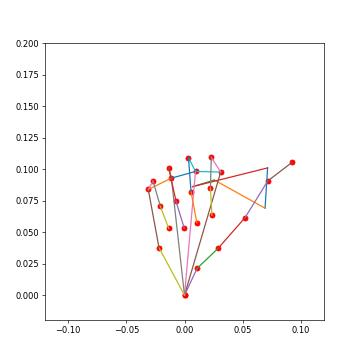
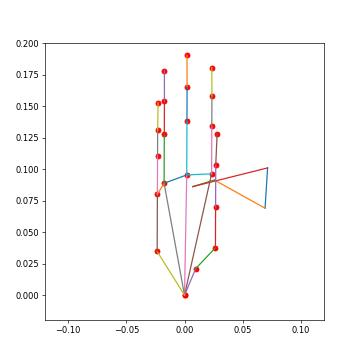
completed tesollo control

diff --git a/openteach/ros_links/franka_tesollo_control.py b/openteach/ros_links/franka_tesollo_control.py
@@ -1,0 +1,159 @@
+import time
+import threading
+import numpy as np
+from copy import deepcopy as copy
+
+# Try to import ROS 2 Python API with a helpful error if missing
+try:
+    import rclpy
+    from rclpy.node import Node
+    from rclpy.executors import MultiThreadedExecutor, SingleThreadedExecutor
+    from rclpy.qos import QoSProfile, ReliabilityPolicy, HistoryPolicy
+
+except ImportError as e:
+    raise ImportError(
+        "Failed to import rclpy. For Ubuntu 22.04 + ROS 2 Humble inside Conda, "
+        "install RoboStack packages (e.g., `mamba install -c robostack -c conda-forge "
+        "ros-humble-ros-base ros-humble-rclpy ros-humble-std-msgs ros-humble-sensor-msgs`)."
+    ) from e
+
+from std_msgs.msg import Float32MultiArray
+from sensor_msgs.msg import JointState
+
+
+TESOLLO_JOINT_STATE_TOPIC = '/gripper/joint_states'
+TESOLLO_TARGET_JOINT_STATE_TOPIC = '/gripper/target_joint'
+
+TESOLLO_HOME_VALUES = [
+    0, -0.17453293, 0.78539816, 0.78539816,           # Index
+    0, -0.17453293, 0.78539816, 0.78539816,           # Middle
+    1.04719755, 0.43633231, 0.26179939, 0.78539816    # Thumb
+]
+
+
+class DexArmControl(Node):
+    def __init__(self, record_type=None, robot_type='both'):
+        # Initialize rclpy and node
+        if not rclpy.ok():
+            rclpy.init(args=None)
+        super().__init__('dex_arm')
+
+        # Use real-time QoS settings
+        qos = QoSProfile(
+            reliability=ReliabilityPolicy.BEST_EFFORT,
+            history=HistoryPolicy.KEEP_LAST,
+            depth=1
+        )
+
+        self.tesollo_joint_state = None
+        self.create_subscription(
+            JointState,
+            TESOLLO_JOINT_STATE_TOPIC,
+            self._callback_tesollo_joint_state,
+            qos_profile=qos
+        )
+
+        self.target_pub = self.create_publisher(
+            Float32MultiArray,
+            TESOLLO_TARGET_JOINT_STATE_TOPIC,
+            1000
+        )
+
+        # Track last commanded joint values (no dedicated commanded topic)
+        self._last_commanded = None
+        self._last_commanded_time = 0.0
+
+        # Spin the node in a background executor thread
+        self._executor = MultiThreadedExecutor(num_threads=4)
+        self._executor.add_node(self)
+        self._spin_thread = threading.Thread(target=self._executor.spin, daemon=True)
+        self._spin_thread.start()
+
+    # ----------------- Callbacks -----------------
+    def _callback_tesollo_joint_state(self, joint_state):
+        self.tesollo_joint_state = joint_state
+
+    # ----------------- State getters -----------------
+    def get_hand_state(self):
+        if self.tesollo_joint_state is None:
+            return None
+        raw = copy(self.tesollo_joint_state)
+        return dict(
+            position=np.array(raw.position, dtype=np.float32),
+            velocity=np.array(raw.velocity, dtype=np.float32) if raw.velocity else np.array([], dtype=np.float32),
+            effort=np.array(raw.effort, dtype=np.float32) if raw.effort else np.array([], dtype=np.float32),
+            timestamp=raw.header.stamp.sec + raw.header.stamp.nanosec * 1e-9
+        )
+
+    def get_hand_position(self):
+        if self.tesollo_joint_state is None:
+            return None
+        return np.array(self.tesollo_joint_state.position, dtype=np.float32)
+
+    def get_hand_velocity(self):
+        if self.tesollo_joint_state is None:
+            return None
+        vel = getattr(self.tesollo_joint_state, 'velocity', [])
+        if vel:
+            return np.array(vel, dtype=np.float32)
+        # If velocity is not populated, return zeros with correct length
+        pos = getattr(self.tesollo_joint_state, 'position', [])
+        return np.zeros(len(pos), dtype=np.float32) if pos else np.array([], dtype=np.float32)
+
+    def get_hand_torque(self):
+        if self.tesollo_joint_state is None:
+            return None
+        eff = getattr(self.tesollo_joint_state, 'effort', [])
+        if eff:
+            return np.array(eff, dtype=np.float32)
+        pos = getattr(self.tesollo_joint_state, 'position', [])
+        return np.zeros(len(pos), dtype=np.float32) if pos else np.array([], dtype=np.float32)
+
+    def get_commanded_hand_state(self):
+        if self._last_commanded is None:
+            return None
+        return dict(
+            position=np.array(self._last_commanded, dtype=np.float32),
+            velocity=np.array([], dtype=np.float32),
+            effort=np.array([], dtype=np.float32),
+            timestamp=self._last_commanded_time,
+        )
+
+    def get_commanded_hand_joint_position(self):
+        if self._last_commanded is None:
+            return None
+        return np.array(self._last_commanded, dtype=np.float32)
+
+    def move_hand(self, tesollo_angles):
+        """
+        Pubilish Float32MultiArray to /gripper/target_joint
+        """
+        msg = Float32MultiArray()
+        msg.data = list(map(float, tesollo_angles))
+        self.target_pub.publish(msg)
+        self._last_commanded = list(map(float, tesollo_angles))
+        self._last_commanded_time = time.time()
+
+    def home_hand(self):
+        self.move_hand(TESOLLO_HOME_VALUES)
+
+    def reset_hand(self):
+        self.home_hand()
+
+    def move_robot(self, tesollo_angles, arm_angles=None):
+        self.move_hand(tesollo_angles)
+
+    def home_robot(self):
+        self.home_hand()
+
+    # Graceful shutdown helpers
+    def shutdown(self):
+        try:
+            if hasattr(self, '_executor'):
+                self._executor.shutdown()
+        finally:
+            try:
+                self.destroy_node()
+            finally:
+                if rclpy.ok():
+                    rclpy.shutdown()

diff --git a/openteach/ros_links/franka_allegro_control.py b/openteach/ros_links/franka_allegro_control.py
@@ -1,7 +1,10 @@
+import rospy
 import numpy as np
 import time
 
-
+from sensor_msgs.msg import JointState
+from geometry_msgs.msg import PoseStamped
+from allegro_hand.controller import AllegroController
 from franka_arm.controller import FrankaController
 from copy import deepcopy as copy
 
@@ -27,7 +30,7 @@ ALLEGRO_HOME_VALUES = ALLEGRO_ORIGINAL_HOME_VALUES
 
 
 class DexArmControl():
-    def __init__(self, record_type=None, robot_type='franka'):
+    def __init__(self, record_type=None, robot_type='both'):
 
         # if pub_port is set to None it will mean that
         # this will only be used for listening to franka and not commanding
@@ -36,14 +39,97 @@ class DexArmControl():
         except:
             pass
     
+        if robot_type == 'both':
+            self._init_allegro_hand_control()
+            self._init_franka_arm_control(record_type)
+        elif robot_type == 'allegro':
+            self._init_allegro_hand_control()
+        elif robot_type == 'franka':
+            self._init_franka_arm_control(record_type)
 
-        self._init_franka_arm_control(record_type)
+    # Controller initializers
+    def _init_allegro_hand_control(self):
+        self.allegro = AllegroController()
+
+        self.allegro_joint_state = None
+        rospy.Subscriber(
+            ALLEGRO_JOINT_STATE_TOPIC, 
+            JointState, 
+            self._callback_allegro_joint_state, 
+            queue_size = 1
+        )
+
+        self.allegro_commanded_joint_state = None
+        rospy.Subscriber(
+            ALLEGRO_COMMANDED_JOINT_STATE_TOPIC, 
+            JointState, 
+            self._callback_allegro_commanded_joint_state, 
+            queue_size = 1
+        )
 
     def _init_franka_arm_control(self, record_type=None):
 
         self.franka = FrankaController(record_type)
 
+    # Rostopic callback functions
+    def _callback_allegro_joint_state(self, joint_state):
+        self.allegro_joint_state = joint_state
 
+    def _callback_allegro_commanded_joint_state(self, joint_state):
+        self.allegro_commanded_joint_state = joint_state
+
+    # State information functions
+    def get_hand_state(self):
+        if self.allegro_joint_state is None:
+            return None
+
+        raw_joint_state = copy(self.allegro_joint_state)
+
+        joint_state = dict(
+            position = np.array(raw_joint_state.position, dtype = np.float32),
+            velocity = np.array(raw_joint_state.velocity, dtype = np.float32),
+            effort = np.array(raw_joint_state.effort, dtype = np.float32),
+            timestamp = raw_joint_state.header.stamp.secs + (raw_joint_state.header.stamp.nsecs * 1e-9)
+        )
+        return joint_state
+
+    def get_commanded_hand_state(self):
+        if self.allegro_commanded_joint_state is None:
+            return None
+
+        raw_joint_state = copy(self.allegro_commanded_joint_state)
+
+        joint_state = dict(
+            position = np.array(raw_joint_state.position, dtype = np.float32),
+            velocity = np.array(raw_joint_state.velocity, dtype = np.float32),
+            effort = np.array(raw_joint_state.effort, dtype = np.float32),
+            timestamp = raw_joint_state.header.stamp.secs + (raw_joint_state.header.stamp.nsecs * 1e-9)
+        )
+        return joint_state
+        
+    def get_hand_position(self):
+        if self.allegro_joint_state is None:
+            return None
+
+        return np.array(self.allegro_joint_state.position, dtype = np.float32)
+
+    def get_hand_velocity(self):
+        if self.allegro_joint_state is None:
+            return None
+
+        return np.array(self.allegro_joint_state.velocity, dtype = np.float32)
+
+    def get_hand_torque(self):
+        if self.allegro_joint_state is None:
+            return None
+
+        return np.array(self.allegro_joint_state.effort, dtype = np.float32)
+
+    def get_commanded_hand_joint_position(self):
+        if self.allegro_commanded_joint_state is None:
+            return None
+
+        return np.array(self.allegro_commanded_joint_state.position, dtype = np.float32)
 
     def get_arm_osc_position(self):
         current_pos, current_axis_angle = copy(self.franka.get_osc_position())
@@ -114,6 +200,17 @@ class DexArmControl():
             axis=0
         )
 
+        return cartesian_coord
+
+    # Movement functions
+    def move_hand(self, allegro_angles):
+        self.allegro.hand_pose(allegro_angles)
+
+    def home_hand(self):
+        self.allegro.hand_pose(ALLEGRO_HOME_VALUES)
+
+    def reset_hand(self):
+        self.home_hand()
 
     def move_arm_joint(self, joint_angles):
         self.franka.joint_movement(joint_angles)
@@ -149,4 +246,11 @@ class DexArmControl():
     def reset_arm(self):
         self.home_arm()
 
+    # Full robot commands
+    def move_robot(self, allegro_angles, arm_angles):
+        self.franka.joint_movement(arm_angles, False)
+        self.allegro.hand_pose(allegro_angles)
 
+    def home_robot(self):
+        self.home_hand()
+        self.home_arm() # For now we're using cartesian values

diff --git a/openteach/components/operators/franka_left.py b/openteach/components/operators/franka_left.py
@@ -78,7 +78,8 @@ class FrankaLeftArmOperator(Operator):
         self.is_first_frame= True
         self.prev_pause_flag=0
         self.pause_cnt=0
-        self.pause_flag=1
+        # Start in STOP state so first pinch starts control
+        self.pause_flag=0
 
 
     @property
@@ -241,8 +242,9 @@ class FrankaLeftArmOperator(Operator):
         # Use a Filter
         if self.use_filter:
             final_pose = self.comp_filter(final_pose)
-        # Move the robot arm
-        self.robot.arm_control(final_pose)
+        # Move the robot arm only when teleoperation is active
+        if self.arm_teleop_state == ARM_TELEOP_CONT:
+            self.robot.arm_control(final_pose)
 
     def stream(self):
         self.notify_component_start('{} control'.format(self.robot.name))

diff --git a/openteach/components/operators/franka_right.py b/openteach/components/operators/franka_right.py
@@ -78,7 +78,7 @@ class FrankaRightArmOperator(Operator):
         self.is_first_frame= True
         self.prev_pause_flag=0
         self.pause_cnt=0
-        self.pause_flag=1
+        self.pause_flag=0
 
 
     @property
@@ -242,7 +242,8 @@ class FrankaRightArmOperator(Operator):
         if self.use_filter:
             final_pose = self.comp_filter(final_pose)
         # Move the robot arm
-        self.robot.arm_control(final_pose)
+        if self.arm_teleop_state == ARM_TELEOP_CONT:
+            self.robot.arm_control(final_pose)
 
     def stream(self):
         self.notify_component_start('{} control'.format(self.robot.name))

diff --git a/openteach/ros_links/franka_control.py b/openteach/ros_links/franka_control.py
@@ -128,8 +128,6 @@ class DexArmControl():
     # Full robot commands
     def move_robot(self, allegro_angles, arm_angles):
         self.franka.joint_movement(arm_angles, False)
-        self.allegro.hand_pose(allegro_angles)
 
     def home_robot(self):
-        self.home_hand()
         self.home_arm() # For now we're using cartesian values

diff --git a/openteach/components/operators/tesollo.py b/openteach/components/operators/tesollo.py
@@ -43,7 +43,7 @@ class TesolloHandOperator(Operator):
 
 
 
-        self._timer = FrequencyTimer(VR_FREQ)
+        self._timer = FrequencyTimer(60)
 
         # Using 3 dimensional thumb motion or two dimensional thumb motion
         if self.finger_configs.get('three_dim', False):
